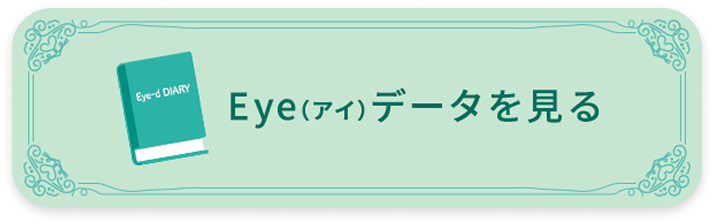
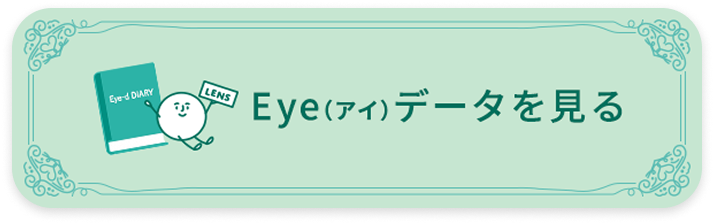
fix(top): ヘッダー色をC(#01468e)90%透過に変更、Eye-d DIARYバナー差替え・ロゴ拡大・サブテキスト余白調整
ヘッダー/フッターランチャーをdeco-blue-stroke 90%透過に変更、
バナー画像差替え、ロゴ176→210px、区切りライン非表示、サブテキスト余白4px

Changed region(s): [[0.1232, 0.2188, 0.8936, 0.75]]

diff --git a/mock/files/commonfiles/styles/design.css b/mock/files/commonfiles/styles/design.css
@@ -174,7 +174,7 @@
   border-bottom: none;
   backdrop-filter: blur(0.5rem);
   -webkit-backdrop-filter: blur(0.5rem);
-  background-color: rgba(0, 40, 85, 0.8);
+  background-color: rgba(1, 70, 142, 0.9);
 }
 
 .c-main {
@@ -473,7 +473,7 @@
   left: 0;
   right: 0;
   z-index: 100;
-  background-color: rgba(0, 40, 85, 0.8);
+  background-color: rgba(1, 70, 142, 0.9);
   backdrop-filter: blur(0.5rem);
   -webkit-backdrop-filter: blur(0.5rem);
   border-top: none;
@@ -2747,7 +2747,7 @@
 
 .c-contact-lens-btn__logo {
   display: block;
-  width: 11rem;
+  width: 13.125rem;
   height: auto;
   margin-top: 1.5rem;
 }
@@ -2758,20 +2758,12 @@
 }
 
 .c-contact-lens-btn__divider {
-  display: block;
-  width: 18.5625rem;
-  height: 0.0625rem;
-  margin: 0.75rem 0;
-}
-@media (min-width: 992px) {
-  .c-contact-lens-btn__divider {
-    width: 31.25rem;
-    margin: 1rem 0;
-  }
+  display: none;
 }
 
 .c-contact-lens-btn__subtitle {
   display: block;
+  margin-top: 0.25rem;
   font-family: "Noto Sans JP", sans-serif;
   font-size: 0.875rem;
   font-weight: 400;

diff --git a/workbench/styles/components/_contactLensButton.scss b/workbench/styles/components/_contactLensButton.scss
@@ -34,7 +34,7 @@
 // ロゴ
 .c-contact-lens-btn__logo {
   display: block;
-  width: rem(176);
+  width: rem(210);
   height: auto;
   margin-top: rem(24);
 
@@ -45,20 +45,13 @@
 
 // 区切りライン
 .c-contact-lens-btn__divider {
-  display: block;
-  width: rem(297);
-  height: rem(1);
-  margin: rem(12) 0;
-
-  @include pc {
-    width: rem(500);
-    margin: rem(16) 0;
-  }
+  display: none;
 }
 
 // サブテキスト
 .c-contact-lens-btn__subtitle {
   display: block;
+  margin-top: rem(4);
   font-family: $font-family-heading;
   font-size: rem(14);
   font-weight: $font-weight-normal;

diff --git a/workbench/styles/components/_pageHeaderMenu.scss b/workbench/styles/components/_pageHeaderMenu.scss
@@ -12,7 +12,7 @@
   border-bottom: none;
   backdrop-filter: blur(rem(8));
   -webkit-backdrop-filter: blur(rem(8));
-  background-color: rgba($primary-color-active, 0.8);
+  background-color: rgba($deco-blue-stroke, 0.9);
 }
 
 // ヘッダーがfixedのため、直後のメインコンテンツがヘッダー下に潜り込まないようにスペーサーを確保

diff --git a/workbench/styles/components/_pageFooterMenu.scss b/workbench/styles/components/_pageFooterMenu.scss
@@ -8,7 +8,7 @@
   left: 0;
   right: 0;
   z-index: $z-index-header;
-  background-color: rgba($primary-color-active, 0.8);
+  background-color: rgba($deco-blue-stroke, 0.9);
   backdrop-filter: blur(rem(8));
   -webkit-backdrop-filter: blur(rem(8));
   border-top: none;
